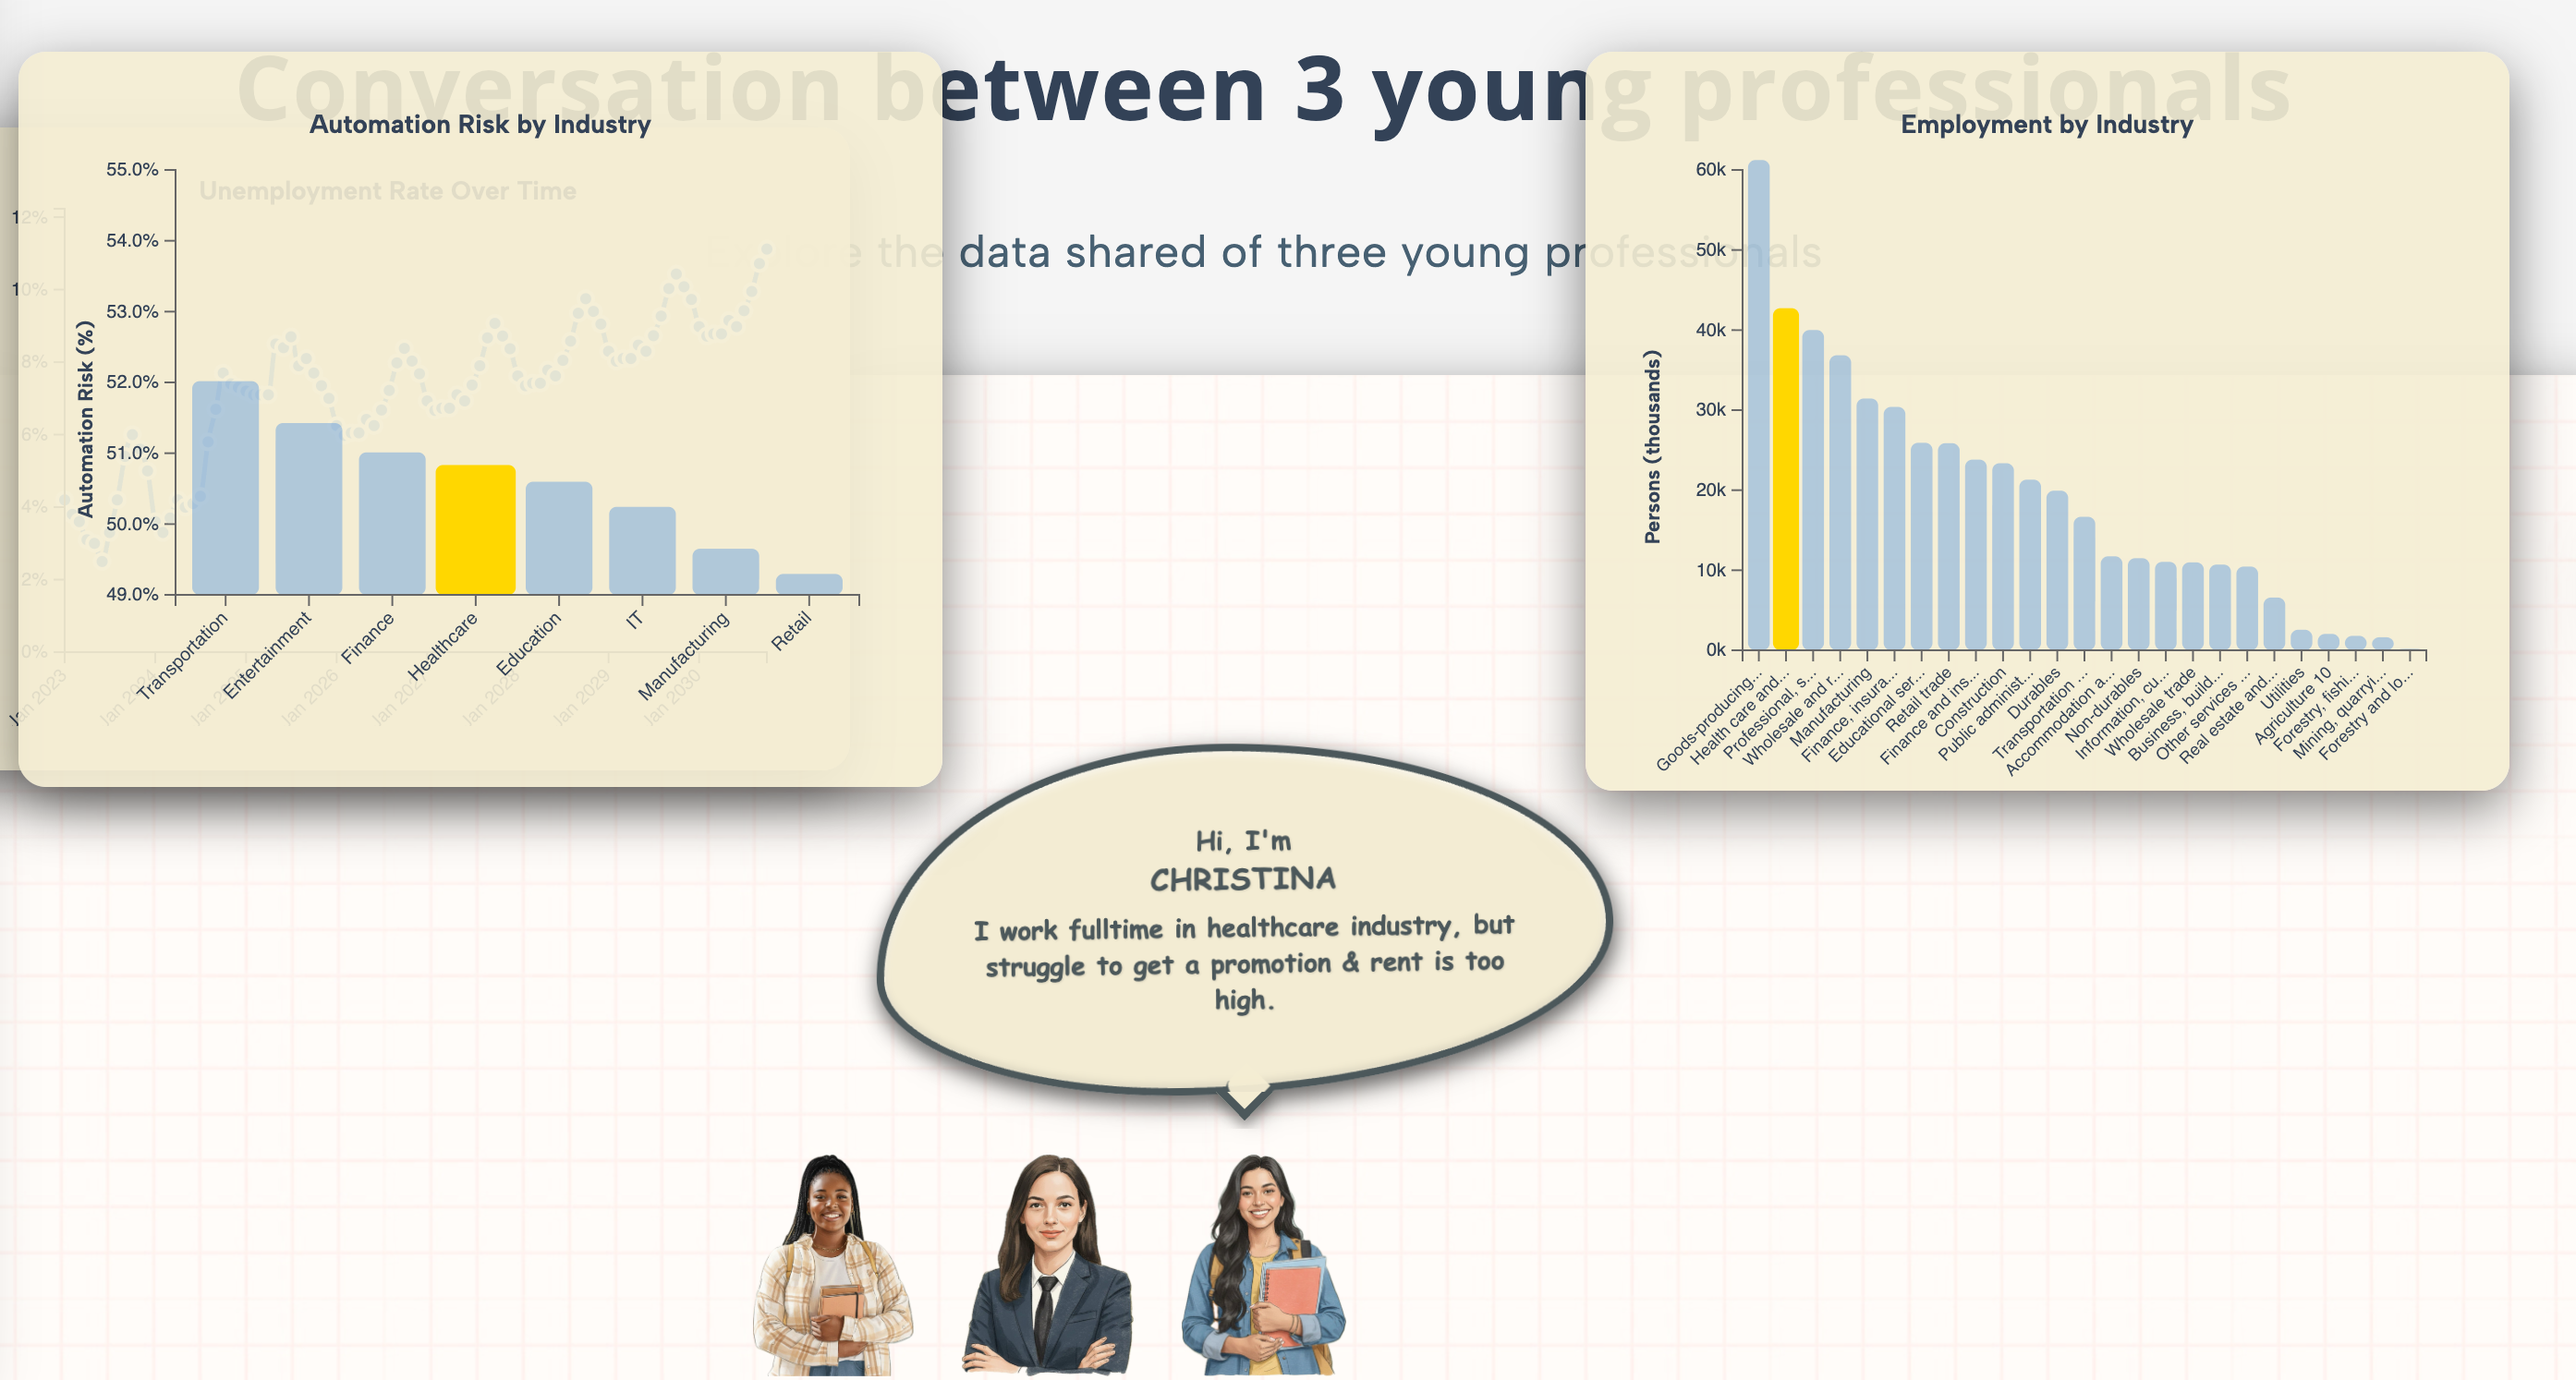
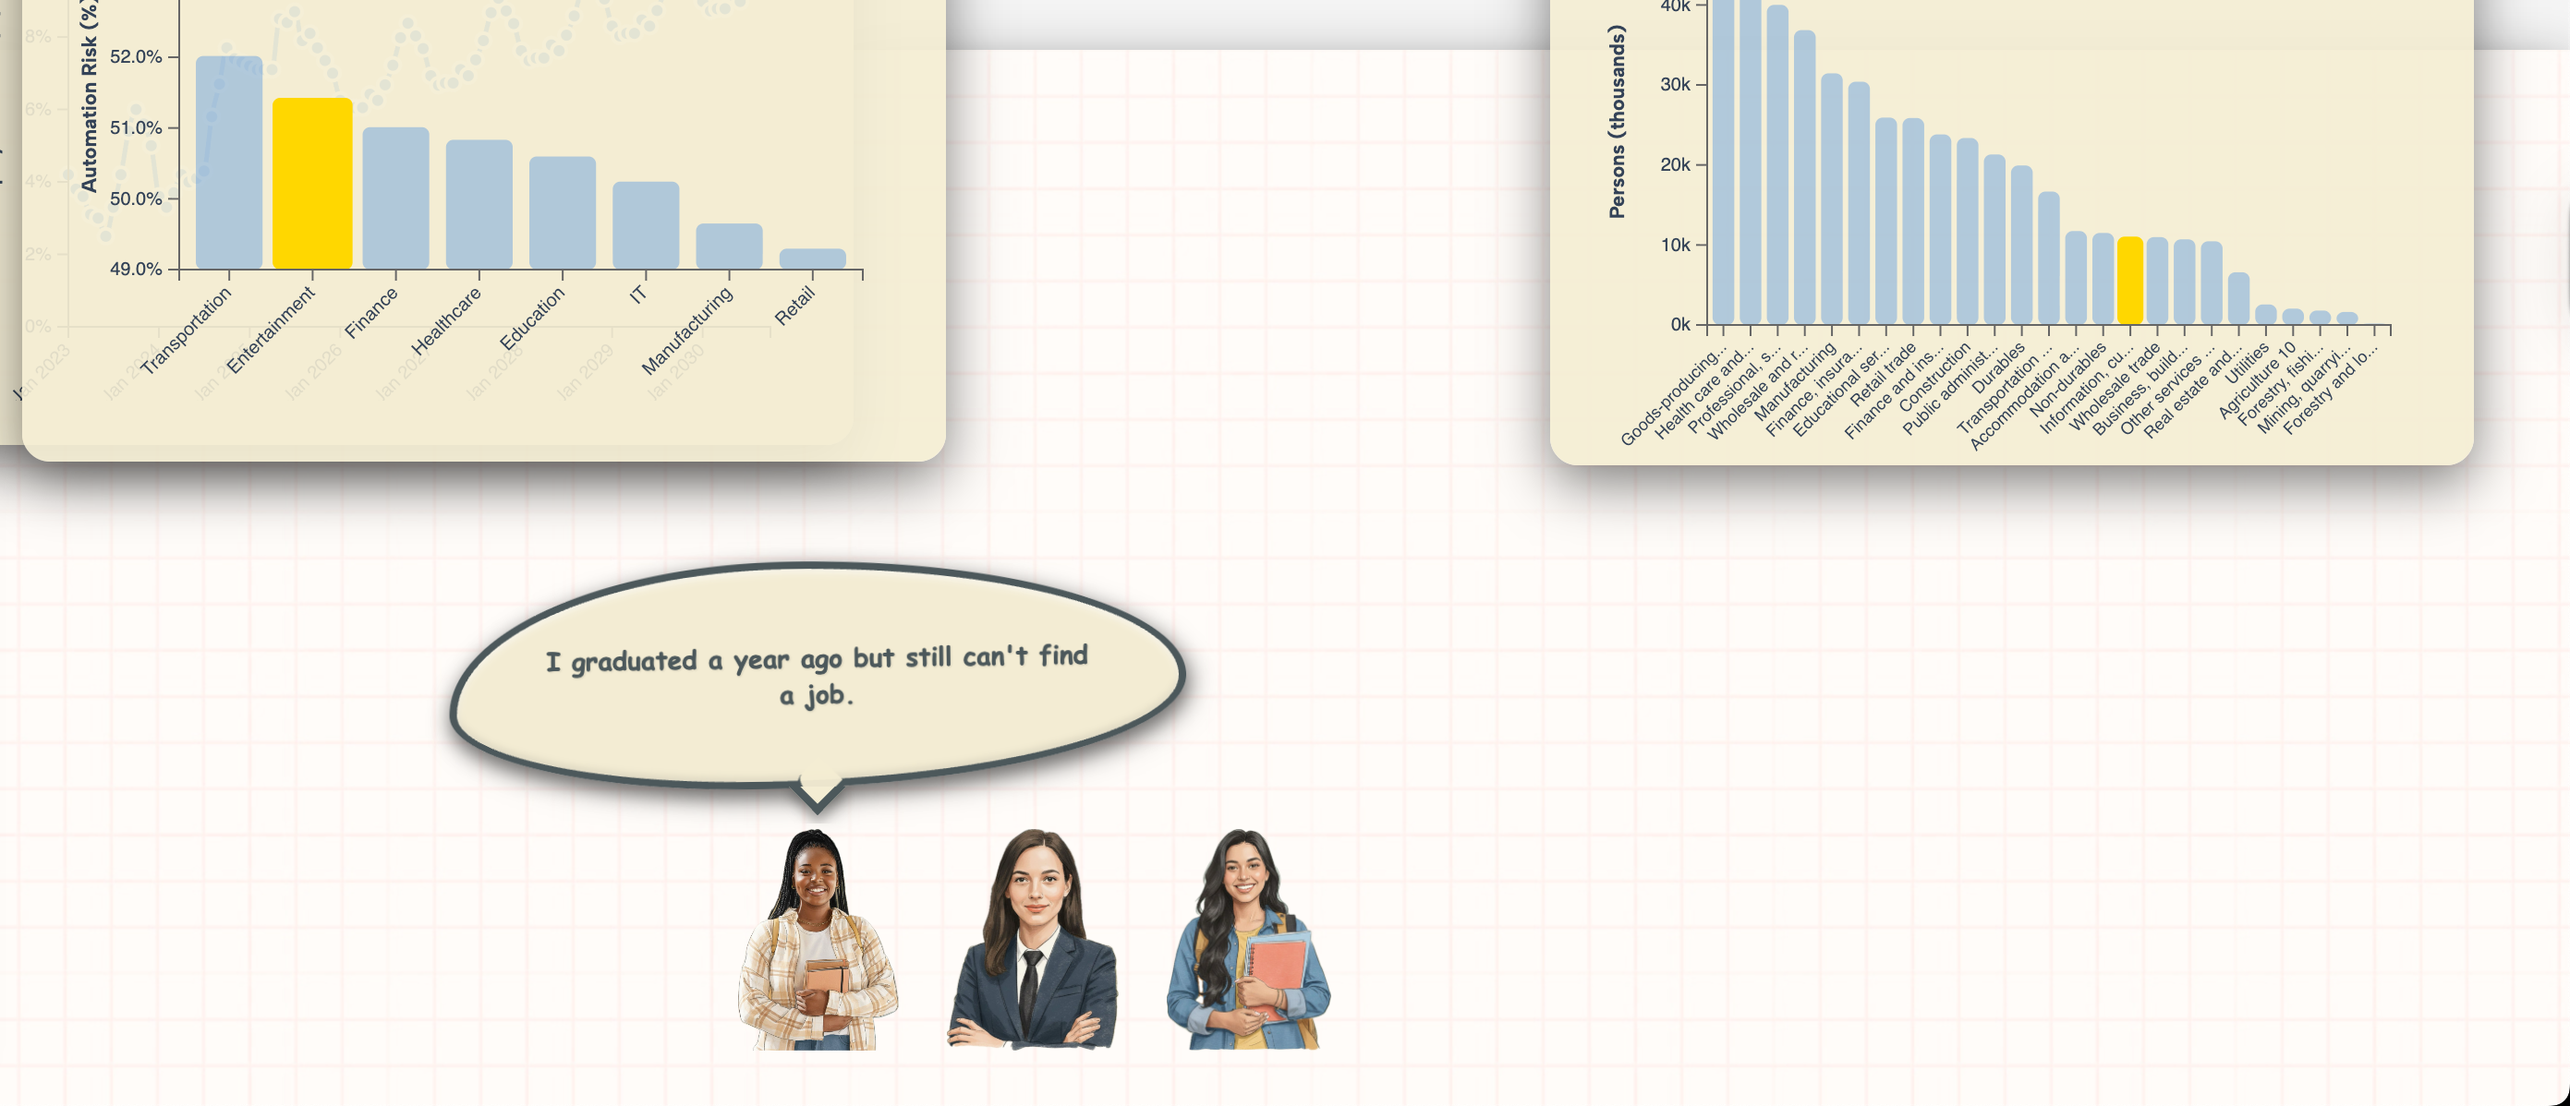
Update config and assignment4 spinoff post

diff --git a/_posts/2025-11-27-assignment4-spinoff.md b/_posts/2025-11-27-assignment4-spinoff.md
@@ -13,4 +13,4 @@ You are welcome to view this work in progress, but be advised that you may encou
 
 <a href="https://kiya69.github.io/data-story/" target="_blank">View the interactive data story</a>
 
-In this scrollytelling, You can also click on the 3 personas' profile picture to pull up their introduction and data.
+In this scrollytelling, you can also click on the 3 personas' profile picture to pull up their introduction and data.
